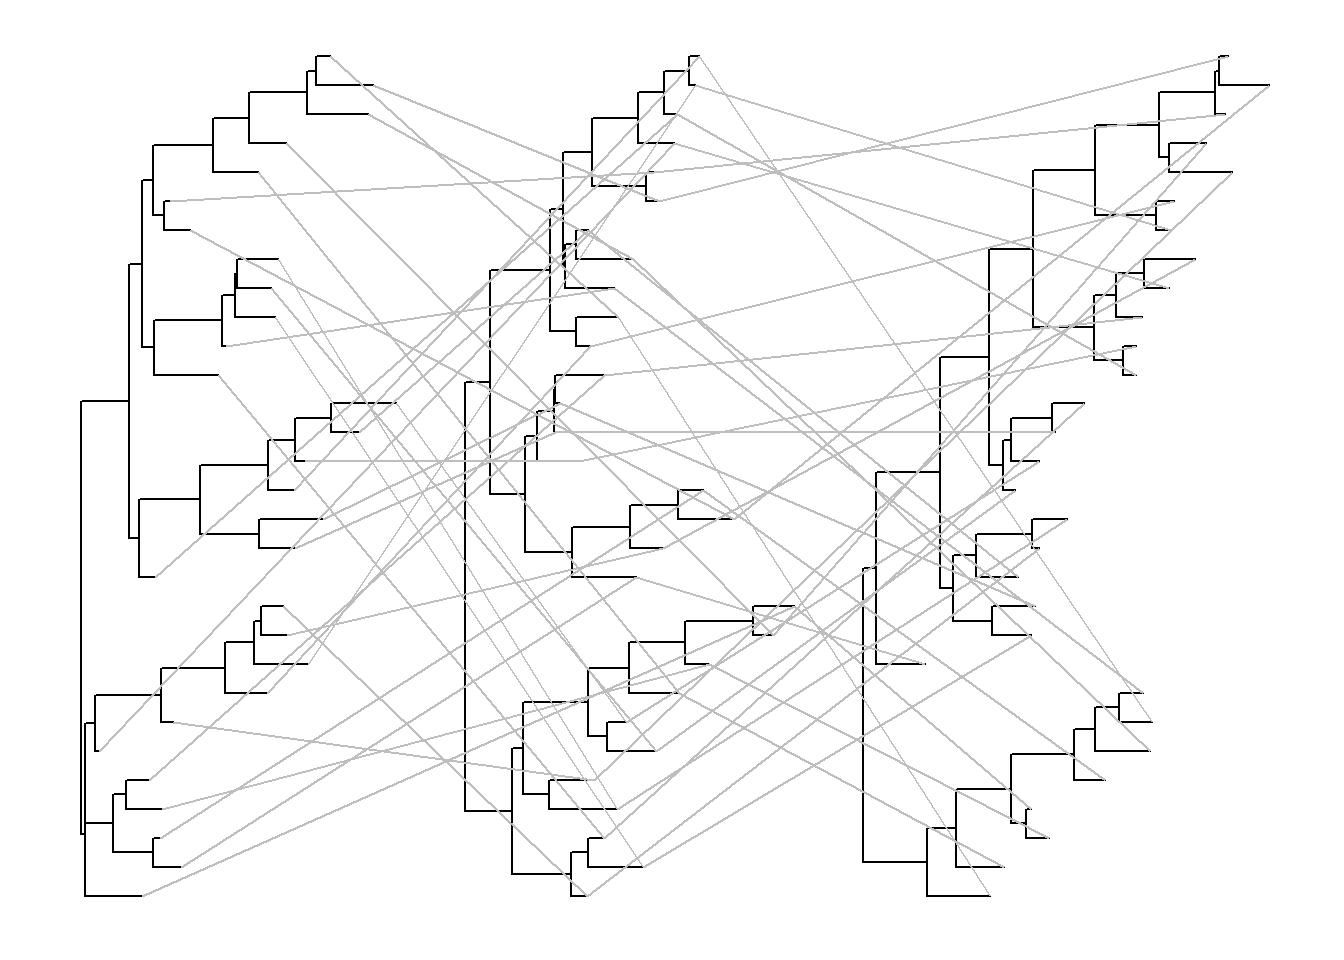
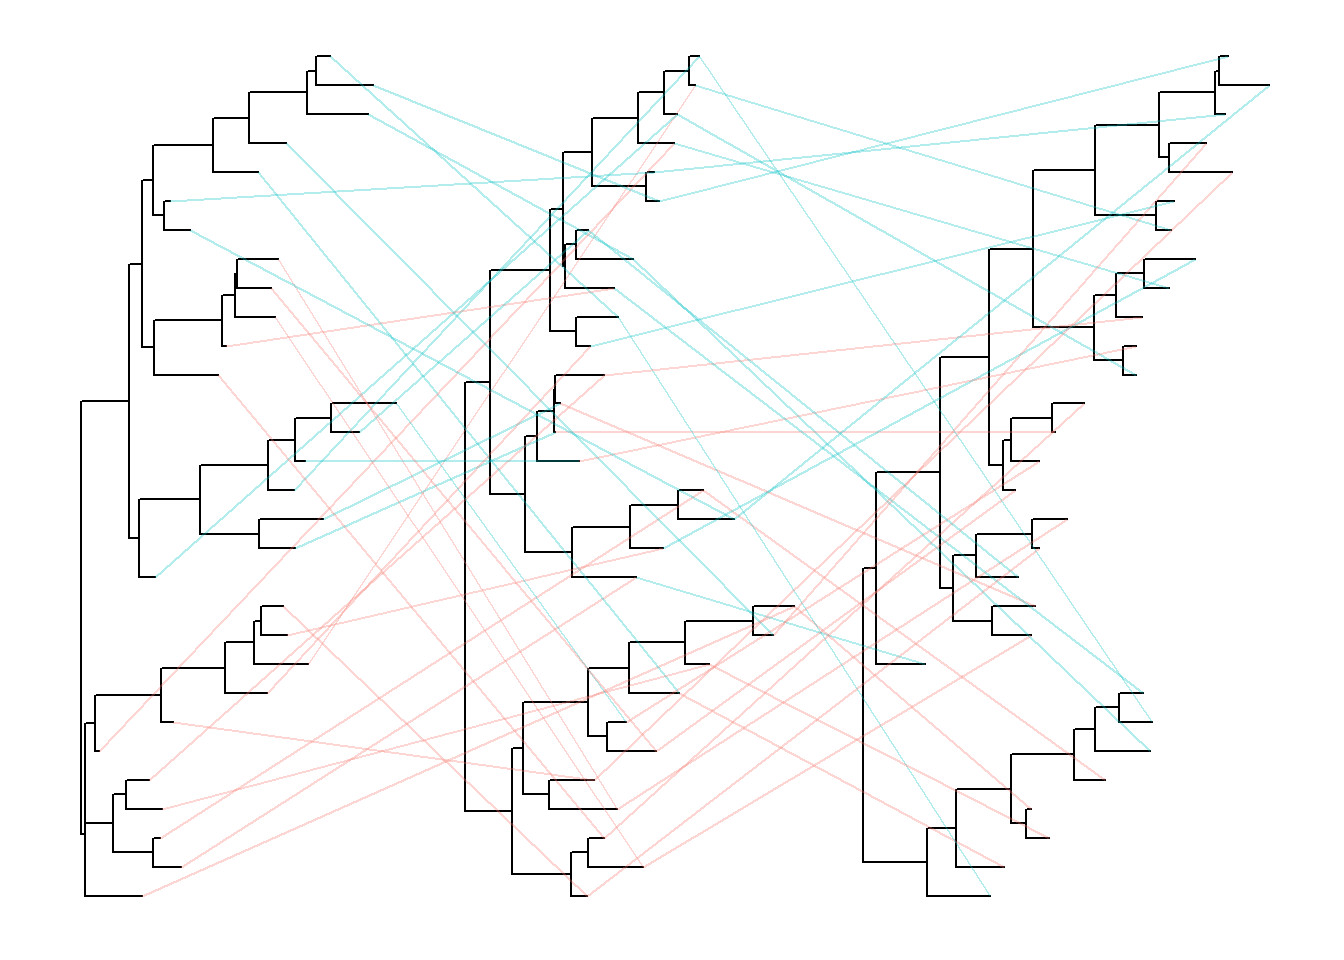
update

diff --git a/docs/chapter2.html b/docs/chapter2.html
@@ -160,7 +160,7 @@ code span.wa { color: #60a0b0; font-weight: bold; font-style: italic; } /* Warni
 <li class="chapter" data-level="2.4.1" data-path="chapter2.html"><a href="chapter2.html#remove-tips-in-a-phylogenetic-tree"><i class="fa fa-check"></i><b>2.4.1</b> Remove tips in a phylogenetic tree</a></li>
 <li class="chapter" data-level="2.4.2" data-path="chapter2.html"><a href="chapter2.html#subset-tree-by-tip-label"><i class="fa fa-check"></i><b>2.4.2</b> Subset tree by tip label</a></li>
 </ul></li>
-<li class="chapter" data-level="2.5" data-path="chapter2.html"><a href="chapter2.html#manipulating-tree-for-visualization"><i class="fa fa-check"></i><b>2.5</b> Manipulating tree for visualization</a></li>
+<li class="chapter" data-level="2.5" data-path="chapter2.html"><a href="chapter2.html#ggtree-fortify"><i class="fa fa-check"></i><b>2.5</b> Manipulating tree data for visualization</a></li>
 <li class="chapter" data-level="2.6" data-path="chapter2.html"><a href="chapter2.html#summary-1"><i class="fa fa-check"></i><b>2.6</b> Summary</a></li>
 </ul></li>
 <li class="chapter" data-level="3" data-path="chapter3.html"><a href="chapter3.html"><i class="fa fa-check"></i><b>3</b> Exporting tree with data</a><ul>
@@ -706,10 +706,10 @@ Figure 2.2: <strong>Re-scaling tree branches.</strong> The tree with branches sc
 <h3><span class="header-section-number">2.4.2</span> Subset tree by tip label</h3>
 </div>
 </div>
-<div id="manipulating-tree-for-visualization" class="section level2">
-<h2><span class="header-section-number">2.5</span> Manipulating tree for visualization</h2>
+<div id="ggtree-fortify" class="section level2">
+<h2><span class="header-section-number">2.5</span> Manipulating tree data for visualization</h2>
 <p>Tree visualization is supported by <a href="chapter4.html#chapter4">ggtree</a>. Although <em>ggtree</em> implemented several methods for <a href="chapter6.html#chapter6">visual exploration of tree with data</a>, you may want to do something that is not supported directly. In this case, you need to manipulate tree data with node coordination positions that used for visualization. This is quite easy with <em>ggtree</em>. User can use <code>foritfy</code> method which internally call <code>tidytree::as_tibble</code> to convert the tree to tidy data frame and add columns of coordination positions (<em>i.e.</em> x, y, branch and angle) that are used to plot the tree. You can also access the data via <code>ggtree(tree)$data</code>.</p>
-<p>Here is an example to plot two trees side by side that similar to a <code>cophyloplot</code>.</p>
+<p>Here is an example to plot two trees face to face that similar to a <code>cophyloplot</code>.</p>
 <pre class="sourceCode r"><code class="sourceCode r"><span class="kw">library</span>(dplyr)
 <span class="kw">library</span>(ggtree)
 
@@ -732,20 +732,19 @@ dd &lt;-<span class="st"> </span><span class="kw">bind_rows</span>(d1, d2) <span
 
 pp <span class="op">+</span><span class="st"> </span><span class="kw">geom_line</span>(<span class="kw">aes</span>(x, y, <span class="dt">group=</span>label), <span class="dt">data=</span>dd, <span class="dt">color=</span><span class="st">&#39;grey&#39;</span>)</code></pre>
 <p><img src="treedata_files/figure-html/unnamed-chunk-42-1.png" width="672" /></p>
-<p>It is quite easy to plot multiple trees and connect taxa in one figure. For instance, plotting trees contructed from all internal gene segments of influenza virus and connecting equivalent strans across the trees<span class="citation">(Venkatesh et al. <a href="#ref-venkatesh_avian_2018">2018</a>)</span>.</p>
+<p>It is quite easy to plot multiple trees and connect taxa in one figure. For instance, plotting trees contructed from all internal gene segments of influenza virus and connecting equivalent strans across the trees <span class="citation">(Venkatesh et al. <a href="#ref-venkatesh_avian_2018">2018</a>)</span>.</p>
 <pre class="sourceCode r"><code class="sourceCode r">z &lt;-<span class="st"> </span><span class="kw">rtree</span>(<span class="dv">30</span>)
-d1 &lt;-<span class="st"> </span>p1<span class="op">$</span>data
-d2 &lt;-<span class="st"> </span>p2<span class="op">$</span>data
+d2 &lt;-<span class="st"> </span><span class="kw">fortify</span>(y)
 d3 &lt;-<span class="st"> </span><span class="kw">fortify</span>(z)
 d2<span class="op">$</span>x &lt;-<span class="st"> </span>d2<span class="op">$</span>x <span class="op">+</span><span class="st"> </span><span class="kw">max</span>(d1<span class="op">$</span>x) <span class="op">+</span><span class="st"> </span><span class="dv">1</span>
 d3<span class="op">$</span>x &lt;-<span class="st"> </span>d3<span class="op">$</span>x <span class="op">+</span><span class="st"> </span><span class="kw">max</span>(d2<span class="op">$</span>x) <span class="op">+</span><span class="st"> </span><span class="dv">1</span>
 
-pp &lt;-<span class="st"> </span>p1 <span class="op">+</span><span class="st"> </span><span class="kw">geom_tree</span>(<span class="dt">data=</span>d2) <span class="op">+</span><span class="st"> </span><span class="kw">geom_tree</span>(<span class="dt">data =</span> d3)
+pp &lt;-<span class="st"> </span>p1 <span class="op">+</span><span class="st"> </span><span class="kw">geom_tree</span>(<span class="dt">data =</span> d2) <span class="op">+</span><span class="st"> </span><span class="kw">geom_tree</span>(<span class="dt">data =</span> d3)
 
 dd =<span class="st"> </span><span class="kw">bind_rows</span>(d1, d2, d3) <span class="op">%&gt;%</span><span class="st"> </span>
 <span class="st">  </span><span class="kw">filter</span>(<span class="op">!</span><span class="kw">is.na</span>(label))
 
-pp <span class="op">+</span><span class="st"> </span><span class="kw">geom_line</span>(<span class="kw">aes</span>(x, y, <span class="dt">group=</span>label), <span class="dt">data=</span>dd, <span class="dt">color=</span><span class="st">&#39;grey&#39;</span>)</code></pre>
+pp <span class="op">+</span><span class="st"> </span><span class="kw">geom_line</span>(<span class="kw">aes</span>(x, y, <span class="dt">group=</span>label, <span class="dt">color=</span>node <span class="op">&lt;</span><span class="st"> </span><span class="dv">15</span>), <span class="dt">data=</span>dd, <span class="dt">alpha=</span>.<span class="dv">3</span>)</code></pre>
 <p><img src="treedata_files/figure-html/unnamed-chunk-43-1.png" width="672" /></p>
 </div>
 <div id="summary-1" class="section level2">

diff --git a/docs/chapter1.html b/docs/chapter1.html
@@ -160,7 +160,7 @@ code span.wa { color: #60a0b0; font-weight: bold; font-style: italic; } /* Warni
 <li class="chapter" data-level="2.4.1" data-path="chapter2.html"><a href="chapter2.html#remove-tips-in-a-phylogenetic-tree"><i class="fa fa-check"></i><b>2.4.1</b> Remove tips in a phylogenetic tree</a></li>
 <li class="chapter" data-level="2.4.2" data-path="chapter2.html"><a href="chapter2.html#subset-tree-by-tip-label"><i class="fa fa-check"></i><b>2.4.2</b> Subset tree by tip label</a></li>
 </ul></li>
-<li class="chapter" data-level="2.5" data-path="chapter2.html"><a href="chapter2.html#manipulating-tree-for-visualization"><i class="fa fa-check"></i><b>2.5</b> Manipulating tree for visualization</a></li>
+<li class="chapter" data-level="2.5" data-path="chapter2.html"><a href="chapter2.html#ggtree-fortify"><i class="fa fa-check"></i><b>2.5</b> Manipulating tree data for visualization</a></li>
 <li class="chapter" data-level="2.6" data-path="chapter2.html"><a href="chapter2.html#summary-1"><i class="fa fa-check"></i><b>2.6</b> Summary</a></li>
 </ul></li>
 <li class="chapter" data-level="3" data-path="chapter3.html"><a href="chapter3.html"><i class="fa fa-check"></i><b>3</b> Exporting tree with data</a><ul>

diff --git a/docs/chapter3.html b/docs/chapter3.html
@@ -160,7 +160,7 @@ code span.wa { color: #60a0b0; font-weight: bold; font-style: italic; } /* Warni
 <li class="chapter" data-level="2.4.1" data-path="chapter2.html"><a href="chapter2.html#remove-tips-in-a-phylogenetic-tree"><i class="fa fa-check"></i><b>2.4.1</b> Remove tips in a phylogenetic tree</a></li>
 <li class="chapter" data-level="2.4.2" data-path="chapter2.html"><a href="chapter2.html#subset-tree-by-tip-label"><i class="fa fa-check"></i><b>2.4.2</b> Subset tree by tip label</a></li>
 </ul></li>
-<li class="chapter" data-level="2.5" data-path="chapter2.html"><a href="chapter2.html#manipulating-tree-for-visualization"><i class="fa fa-check"></i><b>2.5</b> Manipulating tree for visualization</a></li>
+<li class="chapter" data-level="2.5" data-path="chapter2.html"><a href="chapter2.html#ggtree-fortify"><i class="fa fa-check"></i><b>2.5</b> Manipulating tree data for visualization</a></li>
 <li class="chapter" data-level="2.6" data-path="chapter2.html"><a href="chapter2.html#summary-1"><i class="fa fa-check"></i><b>2.6</b> Summary</a></li>
 </ul></li>
 <li class="chapter" data-level="3" data-path="chapter3.html"><a href="chapter3.html"><i class="fa fa-check"></i><b>3</b> Exporting tree with data</a><ul>

diff --git a/docs/chapter4.html b/docs/chapter4.html
@@ -160,7 +160,7 @@ code span.wa { color: #60a0b0; font-weight: bold; font-style: italic; } /* Warni
 <li class="chapter" data-level="2.4.1" data-path="chapter2.html"><a href="chapter2.html#remove-tips-in-a-phylogenetic-tree"><i class="fa fa-check"></i><b>2.4.1</b> Remove tips in a phylogenetic tree</a></li>
 <li class="chapter" data-level="2.4.2" data-path="chapter2.html"><a href="chapter2.html#subset-tree-by-tip-label"><i class="fa fa-check"></i><b>2.4.2</b> Subset tree by tip label</a></li>
 </ul></li>
-<li class="chapter" data-level="2.5" data-path="chapter2.html"><a href="chapter2.html#manipulating-tree-for-visualization"><i class="fa fa-check"></i><b>2.5</b> Manipulating tree for visualization</a></li>
+<li class="chapter" data-level="2.5" data-path="chapter2.html"><a href="chapter2.html#ggtree-fortify"><i class="fa fa-check"></i><b>2.5</b> Manipulating tree data for visualization</a></li>
 <li class="chapter" data-level="2.6" data-path="chapter2.html"><a href="chapter2.html#summary-1"><i class="fa fa-check"></i><b>2.6</b> Summary</a></li>
 </ul></li>
 <li class="chapter" data-level="3" data-path="chapter3.html"><a href="chapter3.html"><i class="fa fa-check"></i><b>3</b> Exporting tree with data</a><ul>

diff --git a/docs/chapter5.html b/docs/chapter5.html
@@ -160,7 +160,7 @@ code span.wa { color: #60a0b0; font-weight: bold; font-style: italic; } /* Warni
 <li class="chapter" data-level="2.4.1" data-path="chapter2.html"><a href="chapter2.html#remove-tips-in-a-phylogenetic-tree"><i class="fa fa-check"></i><b>2.4.1</b> Remove tips in a phylogenetic tree</a></li>
 <li class="chapter" data-level="2.4.2" data-path="chapter2.html"><a href="chapter2.html#subset-tree-by-tip-label"><i class="fa fa-check"></i><b>2.4.2</b> Subset tree by tip label</a></li>
 </ul></li>
-<li class="chapter" data-level="2.5" data-path="chapter2.html"><a href="chapter2.html#manipulating-tree-for-visualization"><i class="fa fa-check"></i><b>2.5</b> Manipulating tree for visualization</a></li>
+<li class="chapter" data-level="2.5" data-path="chapter2.html"><a href="chapter2.html#ggtree-fortify"><i class="fa fa-check"></i><b>2.5</b> Manipulating tree data for visualization</a></li>
 <li class="chapter" data-level="2.6" data-path="chapter2.html"><a href="chapter2.html#summary-1"><i class="fa fa-check"></i><b>2.6</b> Summary</a></li>
 </ul></li>
 <li class="chapter" data-level="3" data-path="chapter3.html"><a href="chapter3.html"><i class="fa fa-check"></i><b>3</b> Exporting tree with data</a><ul>

diff --git a/docs/chapter6.html b/docs/chapter6.html
@@ -160,7 +160,7 @@ code span.wa { color: #60a0b0; font-weight: bold; font-style: italic; } /* Warni
 <li class="chapter" data-level="2.4.1" data-path="chapter2.html"><a href="chapter2.html#remove-tips-in-a-phylogenetic-tree"><i class="fa fa-check"></i><b>2.4.1</b> Remove tips in a phylogenetic tree</a></li>
 <li class="chapter" data-level="2.4.2" data-path="chapter2.html"><a href="chapter2.html#subset-tree-by-tip-label"><i class="fa fa-check"></i><b>2.4.2</b> Subset tree by tip label</a></li>
 </ul></li>
-<li class="chapter" data-level="2.5" data-path="chapter2.html"><a href="chapter2.html#manipulating-tree-for-visualization"><i class="fa fa-check"></i><b>2.5</b> Manipulating tree for visualization</a></li>
+<li class="chapter" data-level="2.5" data-path="chapter2.html"><a href="chapter2.html#ggtree-fortify"><i class="fa fa-check"></i><b>2.5</b> Manipulating tree data for visualization</a></li>
 <li class="chapter" data-level="2.6" data-path="chapter2.html"><a href="chapter2.html#summary-1"><i class="fa fa-check"></i><b>2.6</b> Summary</a></li>
 </ul></li>
 <li class="chapter" data-level="3" data-path="chapter3.html"><a href="chapter3.html"><i class="fa fa-check"></i><b>3</b> Exporting tree with data</a><ul>

diff --git a/docs/chapter7.html b/docs/chapter7.html
@@ -160,7 +160,7 @@ code span.wa { color: #60a0b0; font-weight: bold; font-style: italic; } /* Warni
 <li class="chapter" data-level="2.4.1" data-path="chapter2.html"><a href="chapter2.html#remove-tips-in-a-phylogenetic-tree"><i class="fa fa-check"></i><b>2.4.1</b> Remove tips in a phylogenetic tree</a></li>
 <li class="chapter" data-level="2.4.2" data-path="chapter2.html"><a href="chapter2.html#subset-tree-by-tip-label"><i class="fa fa-check"></i><b>2.4.2</b> Subset tree by tip label</a></li>
 </ul></li>
-<li class="chapter" data-level="2.5" data-path="chapter2.html"><a href="chapter2.html#manipulating-tree-for-visualization"><i class="fa fa-check"></i><b>2.5</b> Manipulating tree for visualization</a></li>
+<li class="chapter" data-level="2.5" data-path="chapter2.html"><a href="chapter2.html#ggtree-fortify"><i class="fa fa-check"></i><b>2.5</b> Manipulating tree data for visualization</a></li>
 <li class="chapter" data-level="2.6" data-path="chapter2.html"><a href="chapter2.html#summary-1"><i class="fa fa-check"></i><b>2.6</b> Summary</a></li>
 </ul></li>
 <li class="chapter" data-level="3" data-path="chapter3.html"><a href="chapter3.html"><i class="fa fa-check"></i><b>3</b> Exporting tree with data</a><ul>

diff --git a/docs/chapter8.html b/docs/chapter8.html
@@ -160,7 +160,7 @@ code span.wa { color: #60a0b0; font-weight: bold; font-style: italic; } /* Warni
 <li class="chapter" data-level="2.4.1" data-path="chapter2.html"><a href="chapter2.html#remove-tips-in-a-phylogenetic-tree"><i class="fa fa-check"></i><b>2.4.1</b> Remove tips in a phylogenetic tree</a></li>
 <li class="chapter" data-level="2.4.2" data-path="chapter2.html"><a href="chapter2.html#subset-tree-by-tip-label"><i class="fa fa-check"></i><b>2.4.2</b> Subset tree by tip label</a></li>
 </ul></li>
-<li class="chapter" data-level="2.5" data-path="chapter2.html"><a href="chapter2.html#manipulating-tree-for-visualization"><i class="fa fa-check"></i><b>2.5</b> Manipulating tree for visualization</a></li>
+<li class="chapter" data-level="2.5" data-path="chapter2.html"><a href="chapter2.html#ggtree-fortify"><i class="fa fa-check"></i><b>2.5</b> Manipulating tree data for visualization</a></li>
 <li class="chapter" data-level="2.6" data-path="chapter2.html"><a href="chapter2.html#summary-1"><i class="fa fa-check"></i><b>2.6</b> Summary</a></li>
 </ul></li>
 <li class="chapter" data-level="3" data-path="chapter3.html"><a href="chapter3.html"><i class="fa fa-check"></i><b>3</b> Exporting tree with data</a><ul>

diff --git a/docs/chapter9.html b/docs/chapter9.html
@@ -160,7 +160,7 @@ code span.wa { color: #60a0b0; font-weight: bold; font-style: italic; } /* Warni
 <li class="chapter" data-level="2.4.1" data-path="chapter2.html"><a href="chapter2.html#remove-tips-in-a-phylogenetic-tree"><i class="fa fa-check"></i><b>2.4.1</b> Remove tips in a phylogenetic tree</a></li>
 <li class="chapter" data-level="2.4.2" data-path="chapter2.html"><a href="chapter2.html#subset-tree-by-tip-label"><i class="fa fa-check"></i><b>2.4.2</b> Subset tree by tip label</a></li>
 </ul></li>
-<li class="chapter" data-level="2.5" data-path="chapter2.html"><a href="chapter2.html#manipulating-tree-for-visualization"><i class="fa fa-check"></i><b>2.5</b> Manipulating tree for visualization</a></li>
+<li class="chapter" data-level="2.5" data-path="chapter2.html"><a href="chapter2.html#ggtree-fortify"><i class="fa fa-check"></i><b>2.5</b> Manipulating tree data for visualization</a></li>
 <li class="chapter" data-level="2.6" data-path="chapter2.html"><a href="chapter2.html#summary-1"><i class="fa fa-check"></i><b>2.6</b> Summary</a></li>
 </ul></li>
 <li class="chapter" data-level="3" data-path="chapter3.html"><a href="chapter3.html"><i class="fa fa-check"></i><b>3</b> Exporting tree with data</a><ul>

diff --git a/docs/figures-and-tables.html b/docs/figures-and-tables.html
@@ -160,7 +160,7 @@ code span.wa { color: #60a0b0; font-weight: bold; font-style: italic; } /* Warni
 <li class="chapter" data-level="2.4.1" data-path="chapter2.html"><a href="chapter2.html#remove-tips-in-a-phylogenetic-tree"><i class="fa fa-check"></i><b>2.4.1</b> Remove tips in a phylogenetic tree</a></li>
 <li class="chapter" data-level="2.4.2" data-path="chapter2.html"><a href="chapter2.html#subset-tree-by-tip-label"><i class="fa fa-check"></i><b>2.4.2</b> Subset tree by tip label</a></li>
 </ul></li>
-<li class="chapter" data-level="2.5" data-path="chapter2.html"><a href="chapter2.html#manipulating-tree-for-visualization"><i class="fa fa-check"></i><b>2.5</b> Manipulating tree for visualization</a></li>
+<li class="chapter" data-level="2.5" data-path="chapter2.html"><a href="chapter2.html#ggtree-fortify"><i class="fa fa-check"></i><b>2.5</b> Manipulating tree data for visualization</a></li>
 <li class="chapter" data-level="2.6" data-path="chapter2.html"><a href="chapter2.html#summary-1"><i class="fa fa-check"></i><b>2.6</b> Summary</a></li>
 </ul></li>
 <li class="chapter" data-level="3" data-path="chapter3.html"><a href="chapter3.html"><i class="fa fa-check"></i><b>3</b> Exporting tree with data</a><ul>

diff --git a/docs/index.html b/docs/index.html
@@ -160,7 +160,7 @@ code span.wa { color: #60a0b0; font-weight: bold; font-style: italic; } /* Warni
 <li class="chapter" data-level="2.4.1" data-path="chapter2.html"><a href="chapter2.html#remove-tips-in-a-phylogenetic-tree"><i class="fa fa-check"></i><b>2.4.1</b> Remove tips in a phylogenetic tree</a></li>
 <li class="chapter" data-level="2.4.2" data-path="chapter2.html"><a href="chapter2.html#subset-tree-by-tip-label"><i class="fa fa-check"></i><b>2.4.2</b> Subset tree by tip label</a></li>
 </ul></li>
-<li class="chapter" data-level="2.5" data-path="chapter2.html"><a href="chapter2.html#manipulating-tree-for-visualization"><i class="fa fa-check"></i><b>2.5</b> Manipulating tree for visualization</a></li>
+<li class="chapter" data-level="2.5" data-path="chapter2.html"><a href="chapter2.html#ggtree-fortify"><i class="fa fa-check"></i><b>2.5</b> Manipulating tree data for visualization</a></li>
 <li class="chapter" data-level="2.6" data-path="chapter2.html"><a href="chapter2.html#summary-1"><i class="fa fa-check"></i><b>2.6</b> Summary</a></li>
 </ul></li>
 <li class="chapter" data-level="3" data-path="chapter3.html"><a href="chapter3.html"><i class="fa fa-check"></i><b>3</b> Exporting tree with data</a><ul>

diff --git a/docs/references.html b/docs/references.html
@@ -160,7 +160,7 @@ code span.wa { color: #60a0b0; font-weight: bold; font-style: italic; } /* Warni
 <li class="chapter" data-level="2.4.1" data-path="chapter2.html"><a href="chapter2.html#remove-tips-in-a-phylogenetic-tree"><i class="fa fa-check"></i><b>2.4.1</b> Remove tips in a phylogenetic tree</a></li>
 <li class="chapter" data-level="2.4.2" data-path="chapter2.html"><a href="chapter2.html#subset-tree-by-tip-label"><i class="fa fa-check"></i><b>2.4.2</b> Subset tree by tip label</a></li>
 </ul></li>
-<li class="chapter" data-level="2.5" data-path="chapter2.html"><a href="chapter2.html#manipulating-tree-for-visualization"><i class="fa fa-check"></i><b>2.5</b> Manipulating tree for visualization</a></li>
+<li class="chapter" data-level="2.5" data-path="chapter2.html"><a href="chapter2.html#ggtree-fortify"><i class="fa fa-check"></i><b>2.5</b> Manipulating tree data for visualization</a></li>
 <li class="chapter" data-level="2.6" data-path="chapter2.html"><a href="chapter2.html#summary-1"><i class="fa fa-check"></i><b>2.6</b> Summary</a></li>
 </ul></li>
 <li class="chapter" data-level="3" data-path="chapter3.html"><a href="chapter3.html"><i class="fa fa-check"></i><b>3</b> Exporting tree with data</a><ul>
